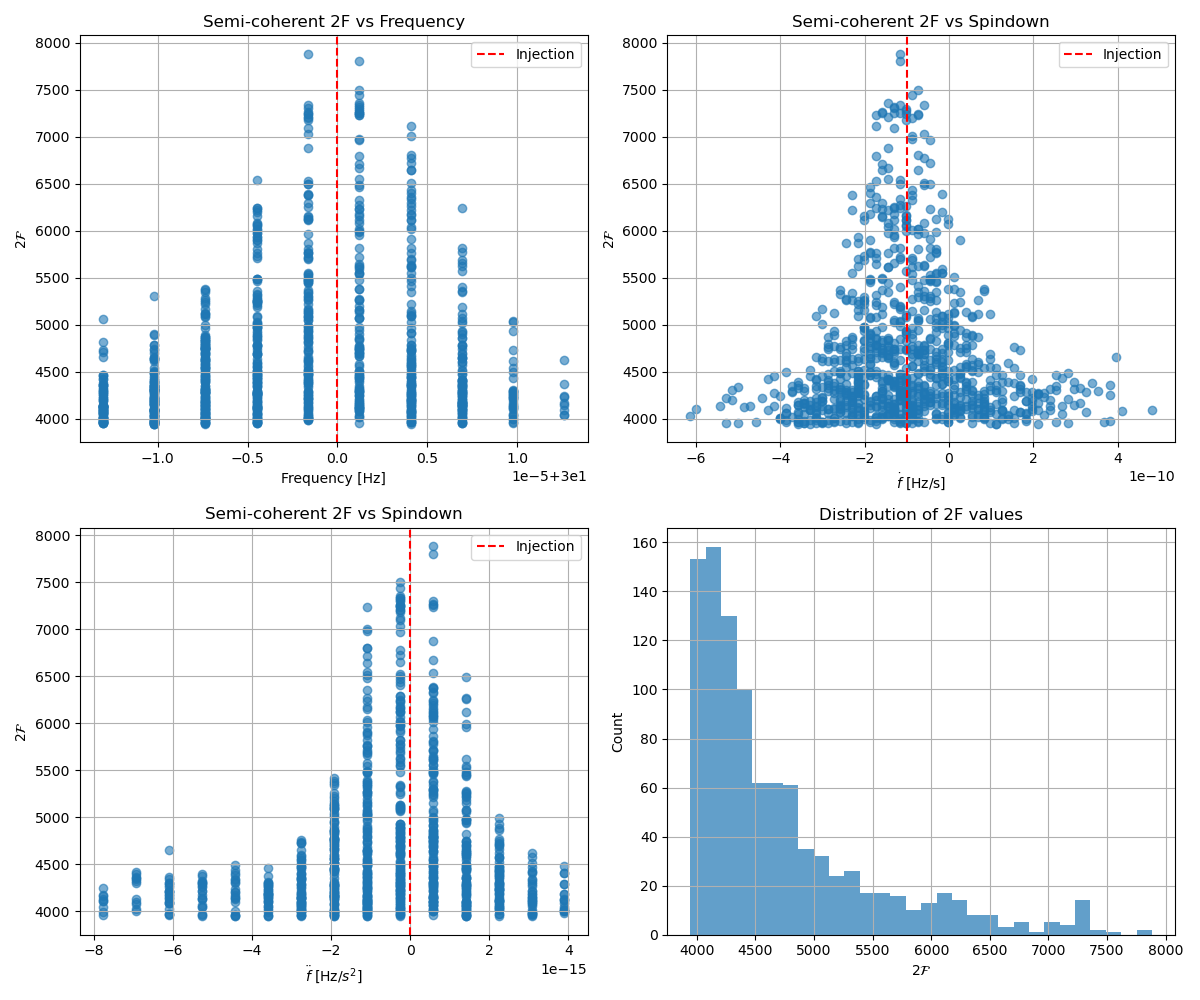
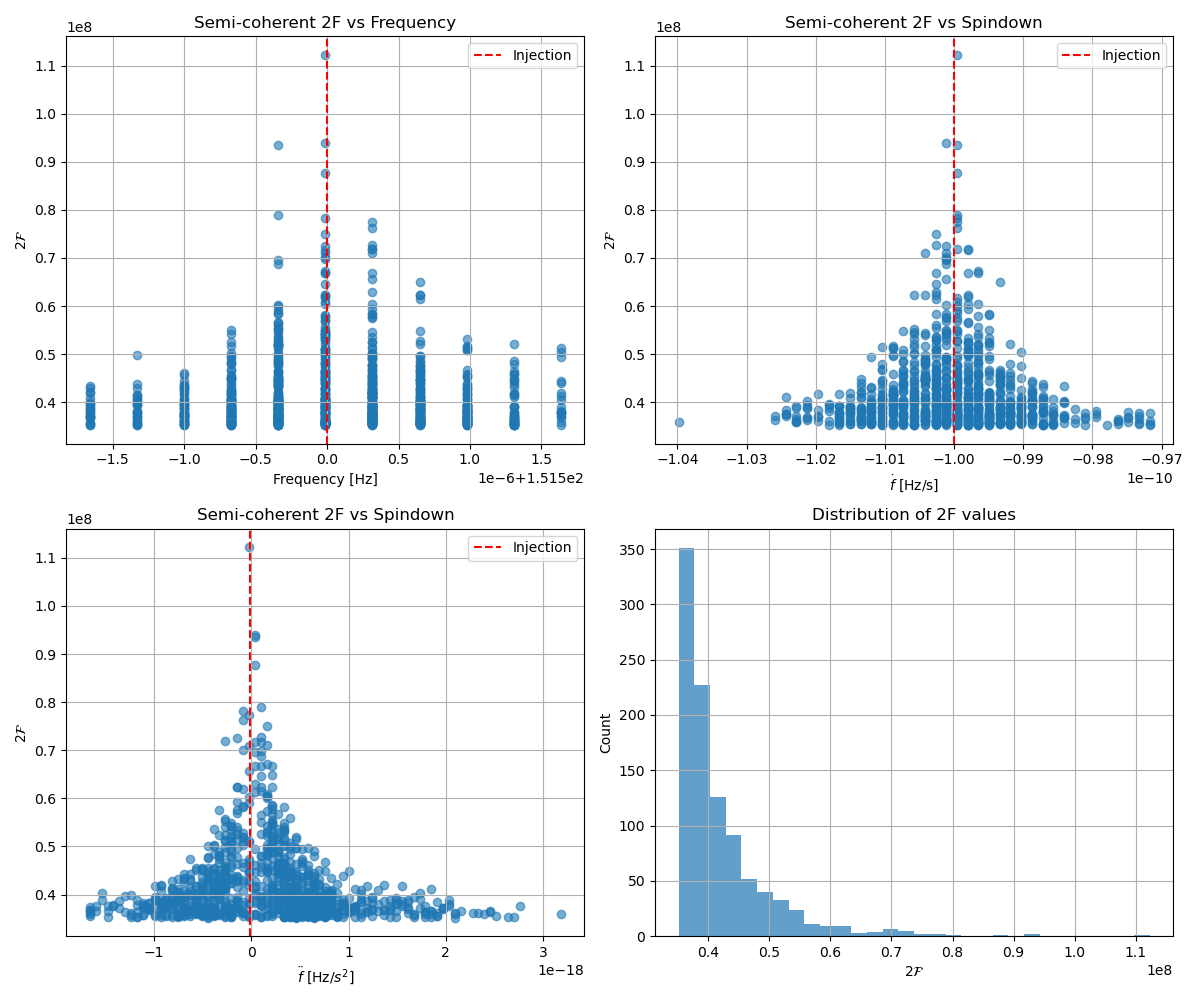
add

diff --git a/lal_grid_search copy 4.py b/lal_grid_search copy 4.py
@@ -10,27 +10,27 @@ outdir = os.path.join("LAL_example_data", label)
 os.makedirs(outdir, exist_ok=True)
 
 # Properties of the GW data
-sqrtSX = 1e-23
+sqrtSX = 1e-22
 tstart = 1000000000
-duration = 10 * 86400
+duration = 120 * 86400
 tend = tstart + duration
 tref = 0.5 * (tstart + tend)
-IFO = "H1"
+IFO = "H1, L1"  # Interferometers to use
 
 # Parameters for injected signals
-depth = 0.45
+depth = 0.02
 h0 = sqrtSX / depth
-F0_inj = 30.0
+F0_inj = 151.5
 F1_inj = -1e-10
-F2_inj = 0
-Alpha_inj = 1.0
-Delta_inj = 1.5
-cosi_inj = 0.0
+F2_inj = -1e-20
+Alpha_inj = 0.5
+Delta_inj = 1
+cosi_inj = 1
 psi_inj = 0.0
 phi0_inj = 0.0
 
 # Semi-coherent search parameters
-tStack = 86400  # 1 day coherent segments
+tStack = 15 * 86400  # 15 day coherent segments
 nStacks = int(duration / tStack)  # Number of segments
 
 # Step 1: Generate SFT data
@@ -59,7 +59,7 @@ makefakedata_cmd = [
     f"--outSFTdir={sft_dir}",
     f"--outLabel={sft_label}",
     f"--injectionSources={injection_params}",
-    "--randSeed=42"
+    "--randSeed=12"
 ]
 
 result = subprocess.run(makefakedata_cmd, capture_output=True, text=True)
@@ -81,10 +81,12 @@ with open(segFile, 'w') as f:
 print(f"Created segment file with {nStacks} segments")
 
 # Step 3: Set up grid search parameters
-m_coh = 0.05
-dF0 = np.sqrt(12 * m_coh) / (np.pi * tStack)
-dF1 = np.sqrt(180 * m_coh) / (np.pi * tStack**2)
-df2 = np.sqrt(25200 * m_coh) / (np.pi * tStack**3)
+mf = 0.15
+mf1 = 0.3
+mf2 = 0.003
+dF0 = np.sqrt(12 * mf) / (np.pi * tStack)
+dF1 = np.sqrt(180 * mf1) / (np.pi * tStack**2)
+df2 = np.sqrt(25200 * mf2) / (np.pi * tStack**3)
 
 # Search bands
 N1 = 10
@@ -145,7 +147,7 @@ hierarchsearch_cmd = [
     f"--df2dot={df2:.15e}",
     f"--tStack={tStack:.15g}",
     f"--nStacksMax={nStacks}",
-    "--mismatch1=0.2",
+    f"--mismatch1={mf:.15g}",
     f"--fnameout={output_file}",
     "--nCand1=1000",
     "--printCand1",
@@ -289,122 +291,107 @@ print(f"\nAll results saved to {outdir}")
 print("\nStep 7: Computing 2F at perfectly matched (injected) point...")
 
 # 准备ComputeFstatistic_v2命令
-computeF_cmd = [
-    "lalpulsar_ComputeFstatistic_v2",
-    f"--DataFiles={sft_pattern}",
+# computeF_cmd = [
+#     "lalpulsar_ComputeFstatistic_v2",
+#     f"--DataFiles={sft_pattern}",
+#     f"--refTime={tref:.15g}",
+#     f"--Alpha={Alpha_inj:.15g}",
+#     f"--Delta={Delta_inj:.15g}",
+#     f"--Freq={F0_inj:.15g}",
+#     f"--f1dot={F1_inj:.15e}",
+#     f"--f2dot={F2_inj:.15e}",
+#     "--outputLoudest=loudest2.dat",
+#     f"--minStartTime={tstart}",
+#     f"--maxStartTime={tend}"
+# ]
+perfect_output_file = os.path.join(outdir, "perfectly_matched_results.dat")
+
+F0_min = F0_inj - DeltaF0 / 2.0
+F0_max = F0_inj + DeltaF0 / 2.0
+F1_min = F1_inj - DeltaF1 / 2.0
+F1_max = F1_inj + DeltaF1 / 2.0
+F2_min = F2_inj - DeltaF2 / 2.0
+F2_max = F2_inj + DeltaF2 / 2.0
+
+
+perfect_search_cmd = [
+    "lalpulsar_HierarchSearchGCT",
+    f"--DataFiles1={sft_pattern}",
+    "--gridType1=3",  # IMPORTANT: 3=file mode for sky grid
+    f"--skyGridFile={skygrid_file}",
+    "--skyRegion=allsky",  # IMPORTANT: needed even with sky grid file
     f"--refTime={tref:.15g}",
-    f"--Alpha={Alpha_inj:.15g}",
-    f"--Delta={Delta_inj:.15g}",
-    f"--Freq={F0_inj:.15g}",
-    f"--f1dot={F1_inj:.15e}",
-    f"--f2dot={F2_inj:.15e}",
-    "--outputLoudest=loudest2.dat",
-    f"--minStartTime={tstart}",
-    f"--maxStartTime={tend}"
+    f"--Freq={F0_min:.15g}",
+    f"--FreqBand={DeltaF0:.15g}",
+    f"--dFreq={dF0:.15e}",
+    f"--f1dot={F1_min:.15e}",
+    f"--f1dotBand={DeltaF1:.15e}",
+    f"--df1dot={dF1:.15e}",
+    f"--f2dot={F2_min:.15e}",
+    f"--f2dotBand={DeltaF2:.15e}",
+    f"--df2dot={df2:.15e}",
+    f"--tStack={tStack:.15g}",
+    f"--nStacksMax={nStacks}",
+    "--mismatch1=0.2",
+    f"--fnameout={perfect_output_file}",
+    "--nCand1=1000",
+    "--printCand1",
+    "--semiCohToplist",
+    f"--minStartTime1={int(tstart)}",
+    f"--maxStartTime1={int(tend)}",
+    "--FstatMethod=ResampBest",
+    "--computeBSGL=FALSE",
+    "--Dterms=8",
+    "--blocksRngMed=101",  # Running median window
+    f"--gammaRefine={gamma1:.15g}",
+    f"--gamma2Refine={gamma2:.15g}",
 ]
 
+
 # 运行命令并捕获输出
-result = subprocess.run(computeF_cmd, capture_output=True, text=True)
+result = subprocess.run(perfect_search_cmd, capture_output=True, text=True)
 
 if result.returncode != 0:
-    print(f"Error running ComputeFstatistic_v2: {result.stderr}")
-else:
-    # 从输出中提取2F值
-    output_lines = result.stdout.strip().split('\n')
-    print(result.stdout)  # 打印输出以便调试
-    perfect_2F = None
-    
-    for line in output_lines:
-        if "twoF" in line or "2F" in line:
-            # 尝试从输出中提取2F值
-            parts = line.split()
-            for i, part in enumerate(parts):
-                if "2F" in part and i+1 < len(parts):
-                    try:
-                        perfect_2F = float(parts[i+1])
-                        break
-                    except:
-                        continue
-            if perfect_2F is not None:
-                break
-    
-    # 如果没有找到，尝试另一种方法：使用outputLoudest文件
-    # if perfect_2F is None:
-    #     loudest_file = os.path.join(outdir, "perfectly_matched_loudest.dat")
-    #     computeF_cmd_with_output = computeF_cmd.copy()
-    #     computeF_cmd_with_output[computeF_cmd_with_output.index("--outputLoudest=NONE")] = f"--outputLoudest={loudest_file}"
-        
-    #     result = subprocess.run(computeF_cmd_with_output, capture_output=True, text=True)
-        
-    #     if result.returncode == 0 and os.path.exists(loudest_file):
-    #         with open(loudest_file, 'r') as f:
-    #             lines = f.readlines()
-    #             for line in lines:
-    #                 if not line.startswith('%') and line.strip():
-    #                     parts = line.split()
-    #                     if len(parts) >= 7:
-    #                         perfect_2F = float(parts[6])  # 2F通常在第7列
-    #                         break
-    
-    # if perfect_2F is not None:
-    #     print(f"\nPerfectly matched 2F = {perfect_2F:.4f}")
-        
-    #     # 与grid search结果比较
-    #     if 'max_twoF' in locals():
-    #         print(f"\nComparison:")
-    #         print(f"  Perfectly matched 2F: {perfect_2F:.4f}")
-    #         print(f"  Grid search max 2F:   {max_twoF:.4f}")
-    #         print(f"  Difference:          {perfect_2F - max_twoF:.4f}")
-    #         print(f"  Relative difference: {(perfect_2F - max_twoF)/perfect_2F * 100:.2f}%")
-            
-    #         # 检查grid search是否找到了注入信号
-    #         if max_twoF < perfect_2F * 0.9:  # 如果grid search的2F小于完美匹配的90%
-    #             print("\nWARNING: Grid search may have missed the injection!")
-    #         else:
-    #             print("\nGrid search successfully recovered the injection!")
-                
-        # 创建比较图
-        if len(F0_vals) > 10 and perfect_2F is not None:
-            fig, ax = plt.subplots(figsize=(10, 6))
-            
-            # 绘制2F vs 频率
-            ax.scatter(F0_vals, twoF_vals, alpha=0.6, label='Grid search')
-            ax.axvline(F0_inj, color='r', linestyle='--', label='Injection frequency')
-            ax.axhline(perfect_2F, color='g', linestyle='--', label=f'Perfect match 2F = {perfect_2F:.2f}')
-            ax.scatter([max_F0], [max_twoF], color='orange', s=100, marker='*', 
-                      label=f'Grid max 2F = {max_twoF:.2f}')
-            
-            ax.set_xlabel('Frequency [Hz]')
-            ax.set_ylabel('$2\\mathcal{F}$')
-            ax.set_title('Comparison: Perfect Match vs Grid Search')
-            ax.legend()
-            ax.grid(True, alpha=0.3)
-            
-            plt.tight_layout()
-            plt.savefig(os.path.join(outdir, "perfect_match_comparison.png"))
-            plt.close()
-            
-            print(f"\nComparison plot saved to {os.path.join(outdir, 'perfect_match_comparison.png')}")
-    else:
-        print("Could not extract 2F value from ComputeFstatistic_v2 output")
+    print(f"Error running lalpulsar_HierarchSearchGCT: {result.stderr}")
+    raise RuntimeError("Failed to compute perfectly matched 2F value")
 
-# 额外分析：计算注入点周围的网格密度
-if len(F0_vals) > 0:
-    # 找到最接近注入频率的网格点
-    closest_idx = np.argmin(np.abs(F0_vals - F0_inj))
-    closest_F0 = F0_vals[closest_idx]
-    closest_F1 = F1_vals[closest_idx]
-    closest_F2 = F2_vals[closest_idx]
-    closest_2F = twoF_vals[closest_idx]
-    
-    print(f"\nClosest grid point to injection:")
-    print(f"  F0: {closest_F0:.6f} Hz (offset: {closest_F0 - F0_inj:.4e} Hz)")
-    print(f"  F1: {closest_F1:.4e} Hz/s (offset: {closest_F1 - F1_inj:.4e} Hz/s)")
-    print(f"  F2: {closest_F2:.4e} Hz/s^2 (offset: {closest_F2 - F2_inj:.4e} Hz/s^2)")
-    print(f"  2F: {closest_2F:.4f}")
-    
-    if 'perfect_2F' in locals() and perfect_2F is not None:
-        mismatch = 1 - closest_2F / perfect_2F
-        print(f"  Mismatch: {mismatch:.4f}")
+with open(perfect_output_file, 'r') as f:
+    lines = f.readlines()
 
-print(f"\nAll analysis results saved to {outdir}")
+# Look for the data section
+data = []
+in_data = False
+for line in lines:
+    if line.strip() and not line.startswith('%'):
+        parts = line.split()
+        if len(parts) >= 7:
+            try:
+                freq = float(parts[0])
+                alpha = float(parts[1])
+                delta = float(parts[2])
+                f1dot = float(parts[3])
+                f2dot = float(parts[4])
+                f3dot = float(parts[5])
+                twoF = float(parts[6])
+                data.append([freq, f1dot, f2dot, twoF])
+            except ValueError:
+                continue
+
+if data:
+    data = np.array(data)
+    F0_vals = data[:, 0]
+    F1_vals = data[:, 1]
+    F2_vals = data[:, 2]
+    twoF_vals = data[:, 3]
+    
+    # Find maximum
+    max_idx = np.argmax(twoF_vals)
+    perfect_2F = twoF_vals[max_idx]
+    
+
+
+print("perfectly match: 2F = ", perfect_2F)
+print("found maximum: 2F = ", max_twoF)
+mismatch = (perfect_2F - max_twoF) / (perfect_2F - 4)
+
+print(f"\nMismatch between perfectly matched point and found maximum: {mismatch:.6f}")
